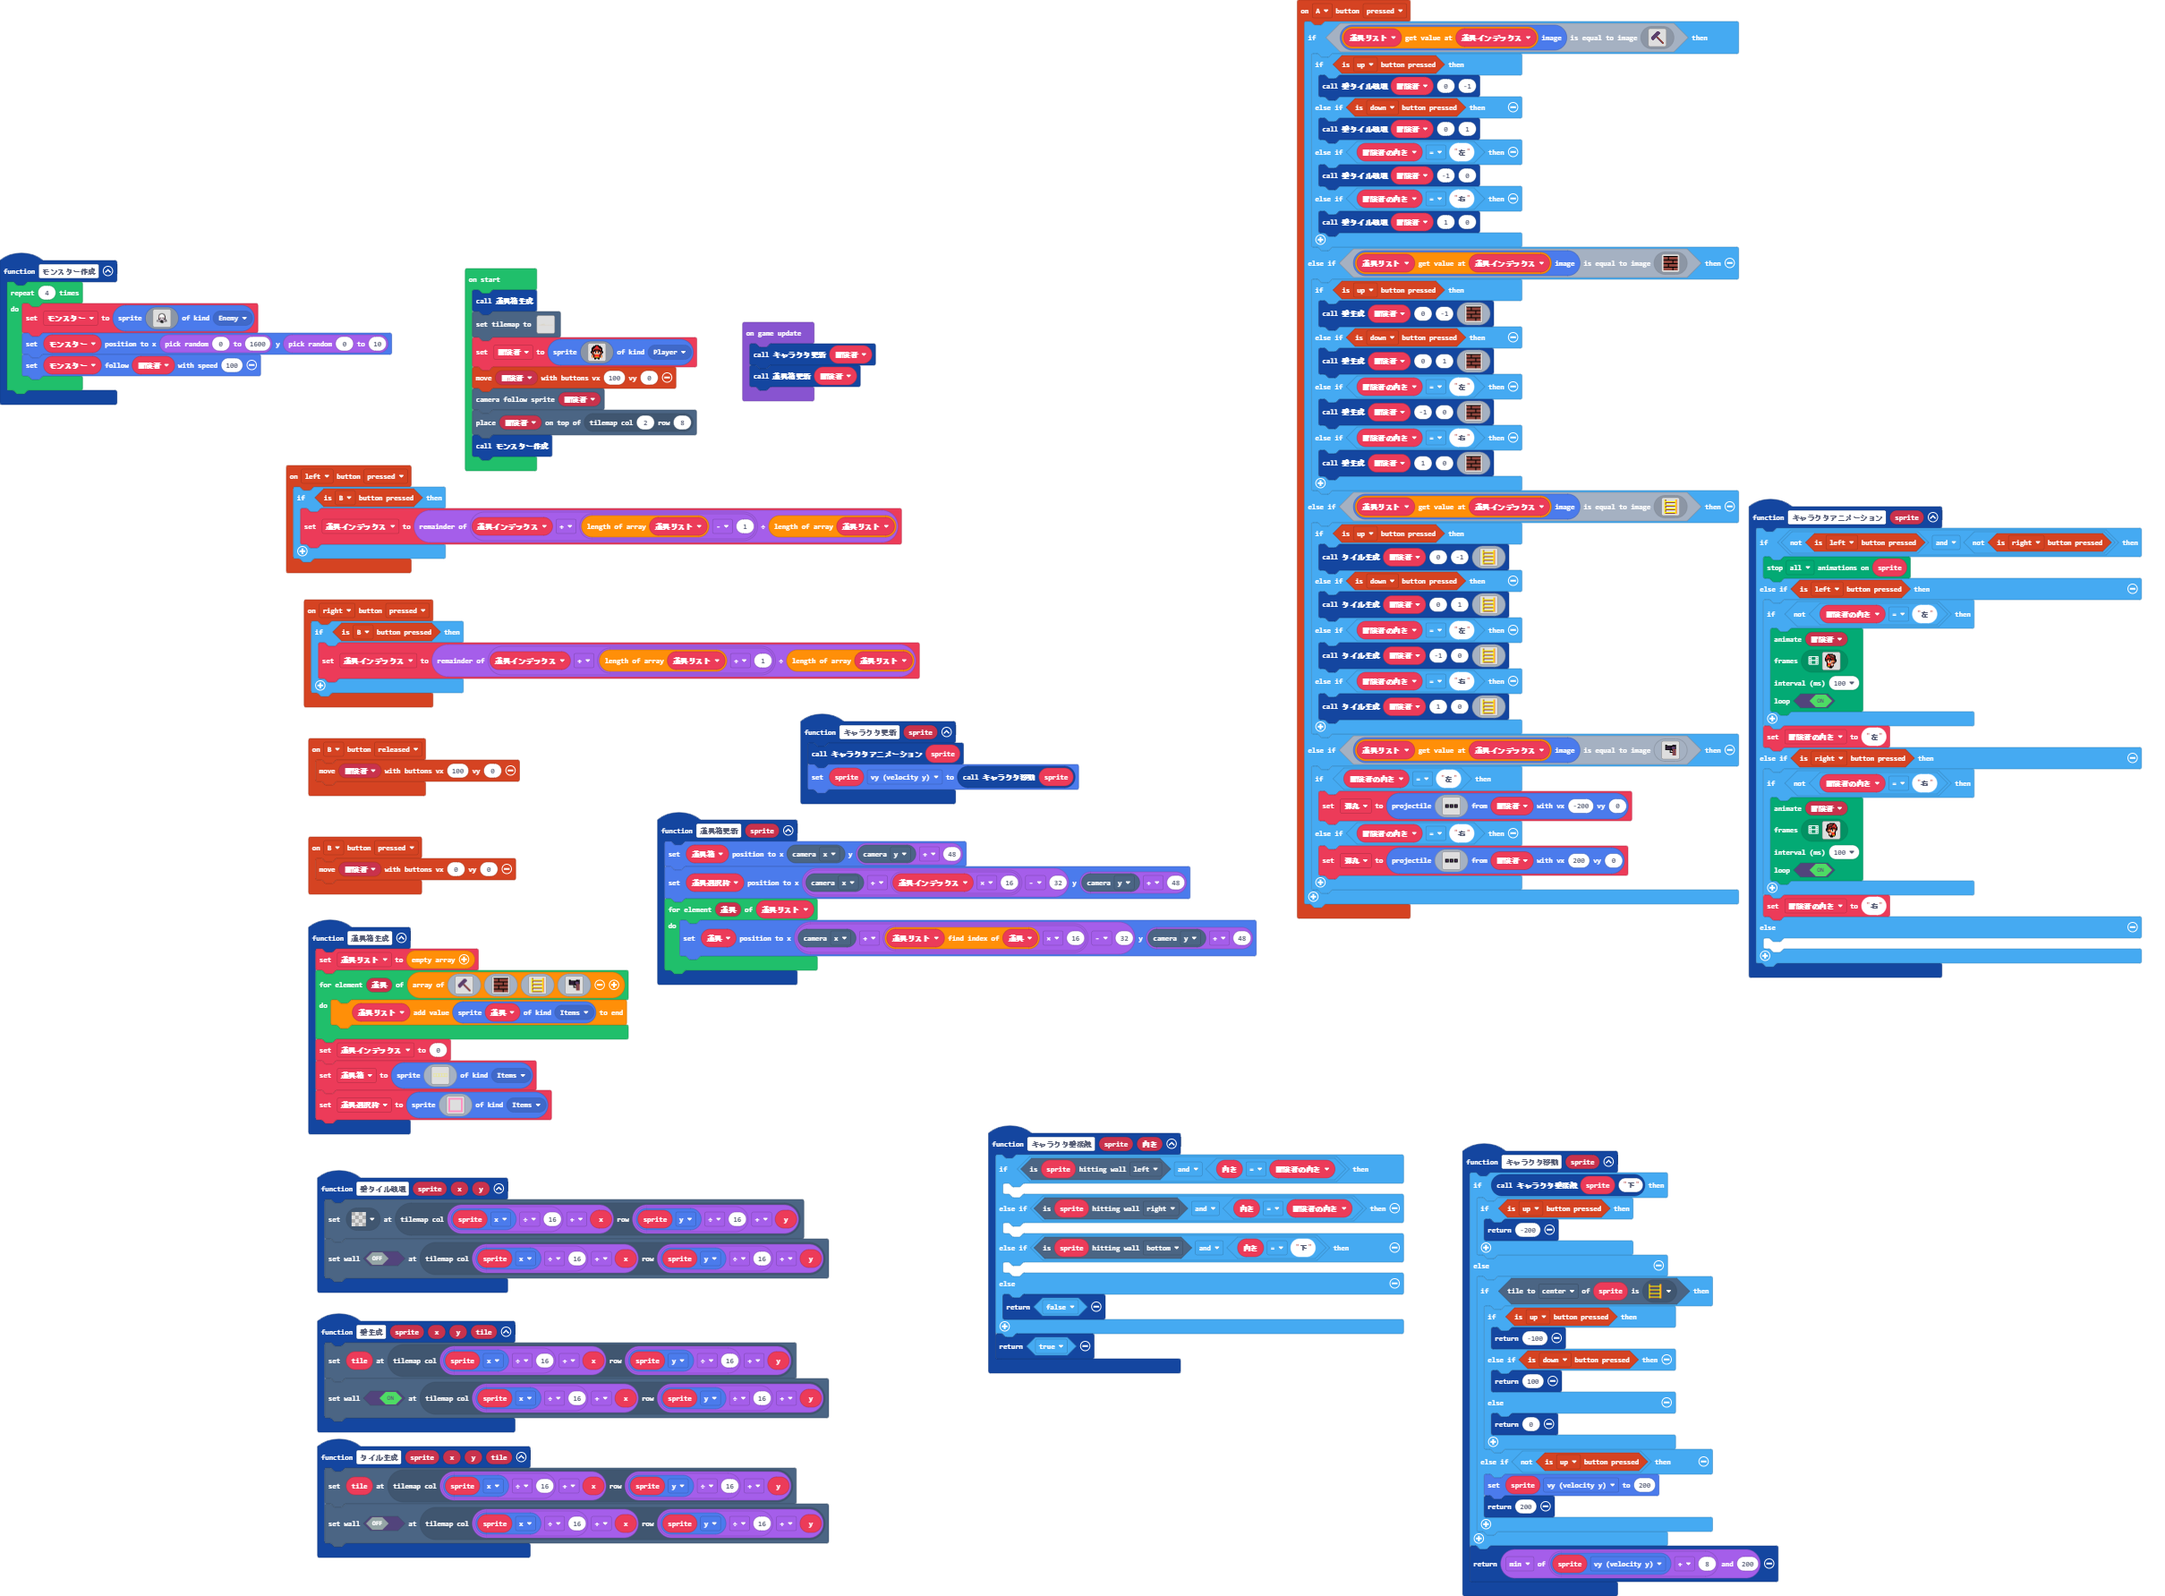
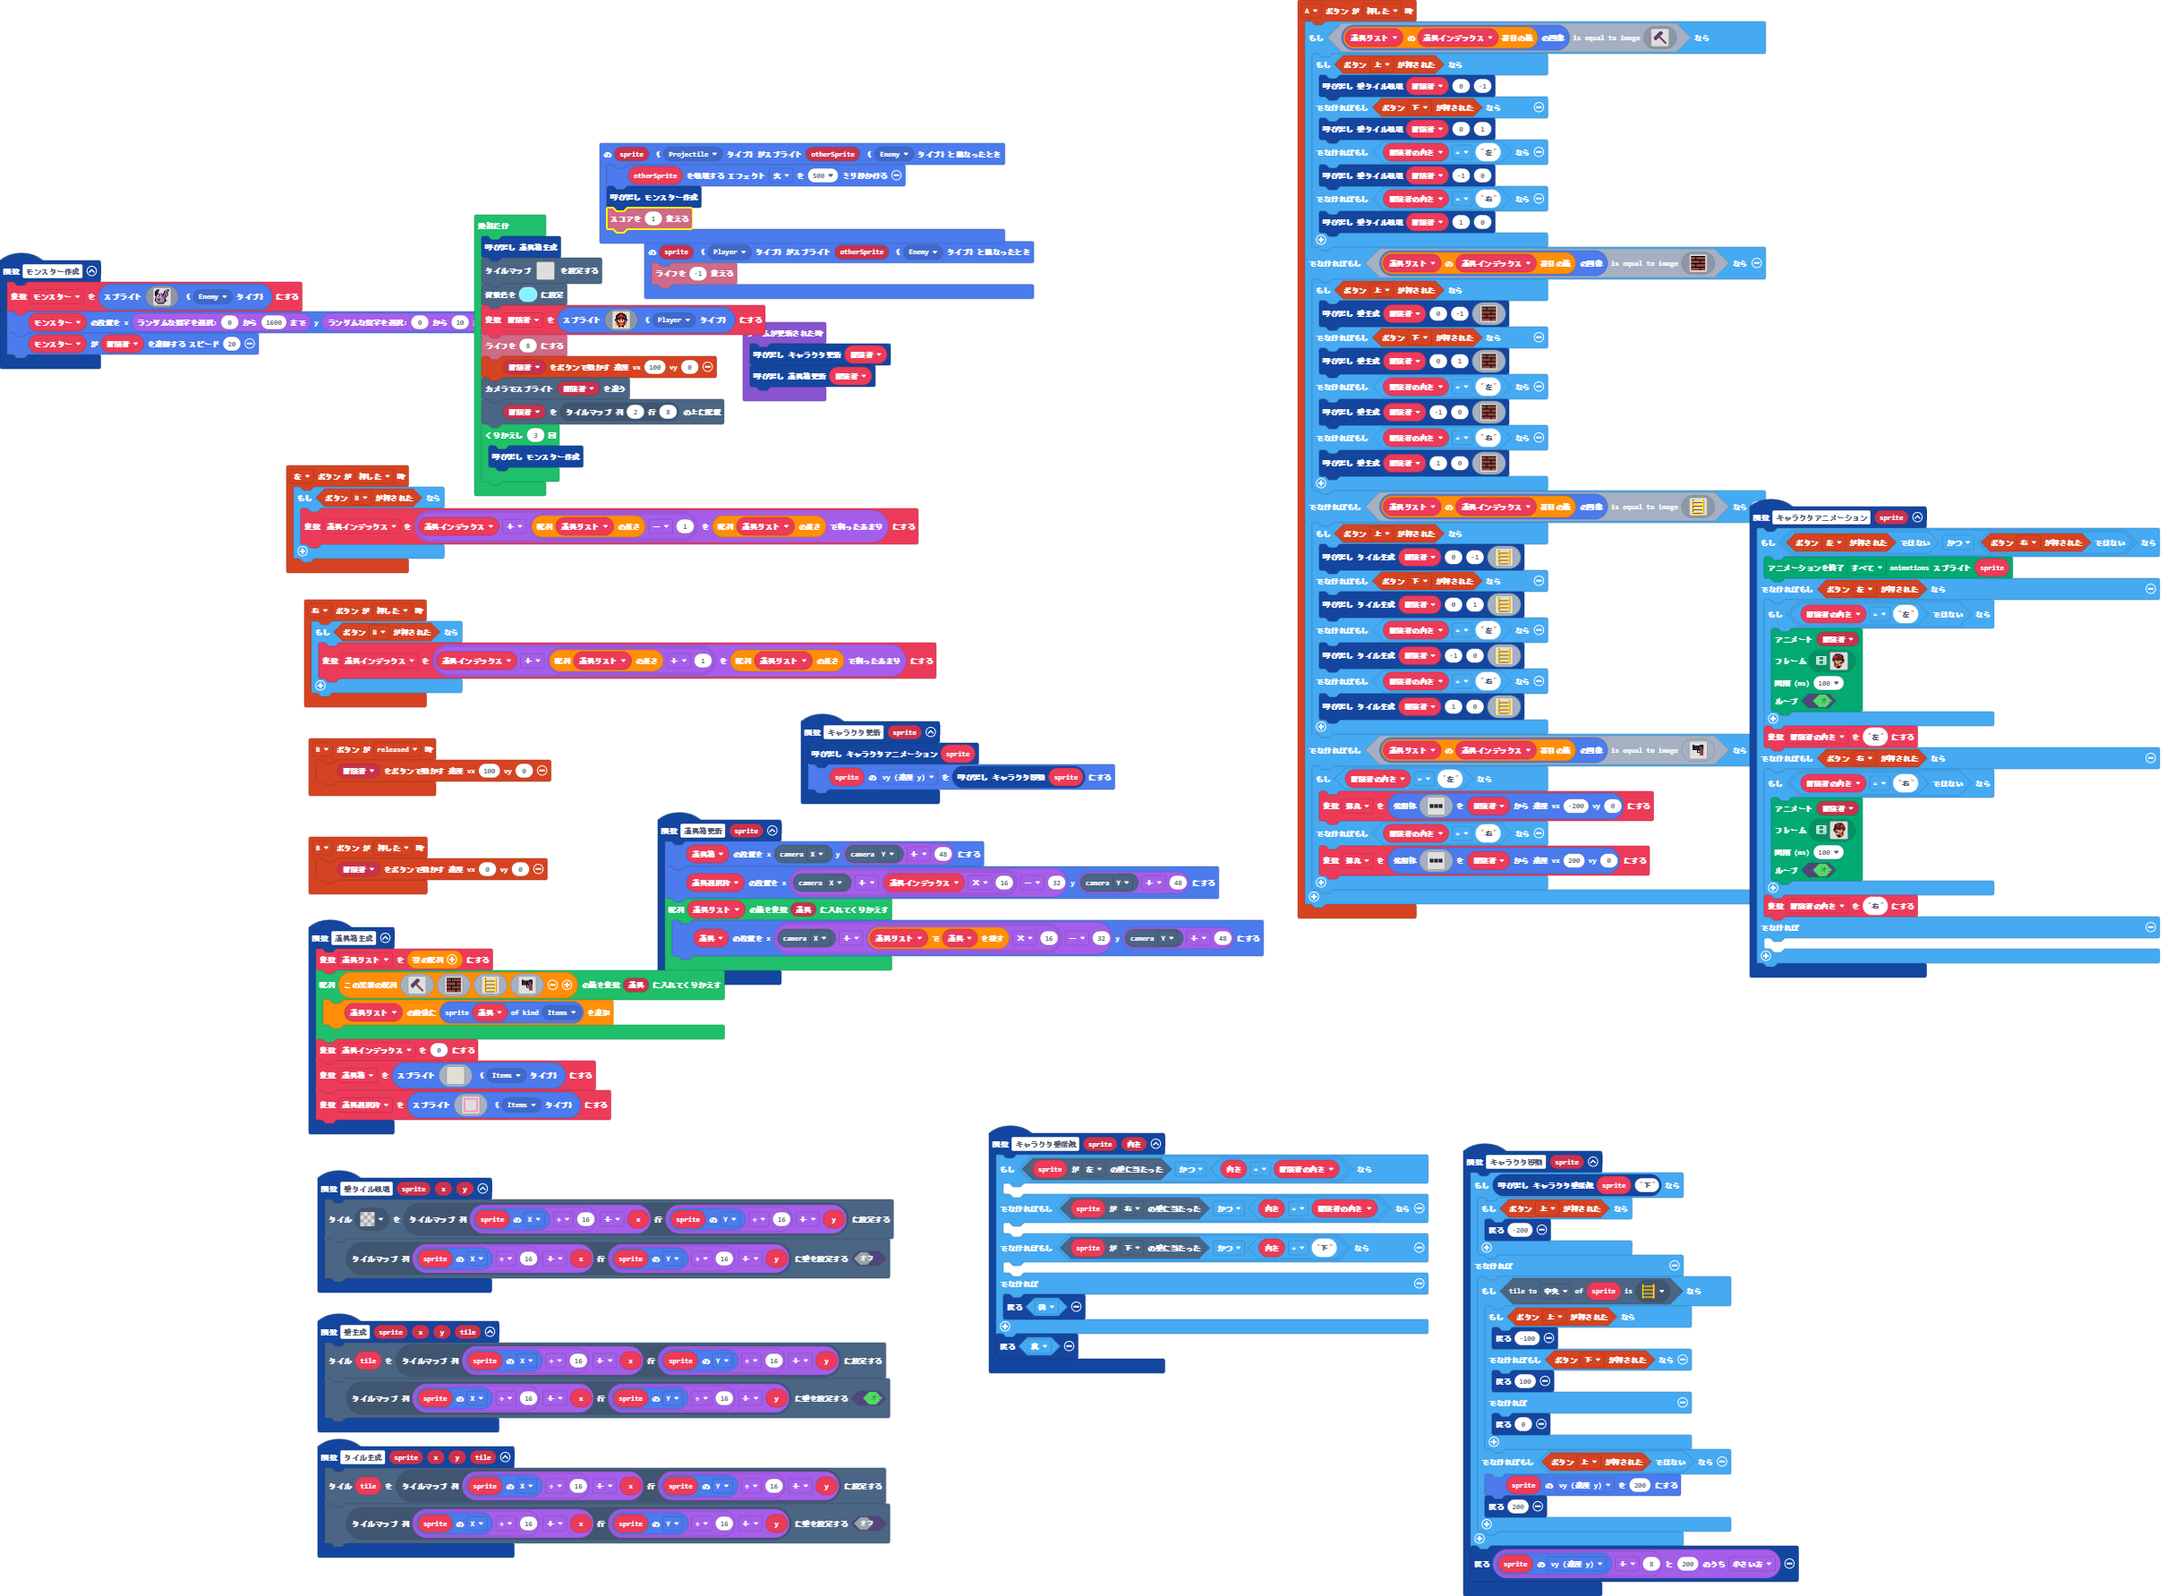
更新 main.blocks, main.ts, tilemap.g.jres, tilemap.g.ts, images.g.jres, images.g.ts

diff --git a/main.ts b/main.ts
@@ -5,85 +5,33 @@ function タイル生成 (sprite: Sprite, x: number, y: number, tile: Image) {
     tiles.setTileAt(tiles.getTileLocation(sprite.x / 16 + x, sprite.y / 16 + y), tile)
     tiles.setWallAt(tiles.getTileLocation(sprite.x / 16 + x, sprite.y / 16 + y), false)
 }
-function モンスター作成 () {
-    for (let index = 0; index < 4; index++) {
-        モンスター = sprites.create(img`
-            ........................
-            ........................
-            ........................
-            ........................
-            ..........ffff..........
-            ........ff1111ff........
-            .......fb111111bf.......
-            .......f11111111f.......
-            ......fd11111111df......
-            ......fd11111111df......
-            ......fddd1111dddf......
-            ......fbdbfddfbdbf......
-            ......fcdcf11fcdcf......
-            .......fb111111bf.......
-            ......fffcdb1bdffff.....
-            ....fc111cbfbfc111cf....
-            ....f1b1b1ffff1b1b1f....
-            ....fbfbffffffbfbfbf....
-            .........ffffff.........
-            ...........fff..........
-            ........................
-            ........................
-            ........................
-            ........................
-            `, SpriteKind.Enemy)
-        モンスター.setPosition(randint(0, 1600), randint(0, 10))
-        モンスター.follow(冒険者, 100)
-    }
-}
-controller.B.onEvent(ControllerButtonEvent.Pressed, function () {
-    controller.moveSprite(冒険者, 0, 0)
-})
-controller.A.onEvent(ControllerButtonEvent.Pressed, function () {
-    if (道具リスト[道具インデックス].image.equals(assets.image`ハンマー`)) {
-        if (controller.up.isPressed()) {
-            壁タイル破壊(冒険者, 0, -1)
-        } else if (controller.down.isPressed()) {
-            壁タイル破壊(冒険者, 0, 1)
-        } else if (冒険者の向き == "左") {
-            壁タイル破壊(冒険者, -1, 0)
-        } else if (冒険者の向き == "右") {
-            壁タイル破壊(冒険者, 1, 0)
-        }
-    } else if (道具リスト[道具インデックス].image.equals(assets.tile`壁タイル`)) {
-        if (controller.up.isPressed()) {
-            壁生成(冒険者, 0, -1, assets.tile`壁タイル`)
-        } else if (controller.down.isPressed()) {
-            壁生成(冒険者, 0, 1, assets.tile`壁タイル`)
-        } else if (冒険者の向き == "左") {
-            壁生成(冒険者, -1, 0, assets.tile`壁タイル`)
-        } else if (冒険者の向き == "右") {
-            壁生成(冒険者, 1, 0, assets.tile`壁タイル`)
-        }
-    } else if (道具リスト[道具インデックス].image.equals(assets.tile`ハシゴタイル`)) {
-        if (controller.up.isPressed()) {
-            タイル生成(冒険者, 0, -1, assets.tile`ハシゴタイル`)
-        } else if (controller.down.isPressed()) {
-            タイル生成(冒険者, 0, 1, assets.tile`ハシゴタイル`)
-        } else if (冒険者の向き == "左") {
-            タイル生成(冒険者, -1, 0, assets.tile`ハシゴタイル`)
-        } else if (冒険者の向き == "右") {
-            タイル生成(冒険者, 1, 0, assets.tile`ハシゴタイル`)
-        }
-    } else if (道具リスト[道具インデックス].image.equals(assets.image`ハンドガン`)) {
-        if (冒険者の向き == "左") {
-            弾丸 = sprites.createProjectileFromSprite(assets.image`弾丸`, 冒険者, -200, 0)
-        } else if (冒険者の向き == "右") {
-            弾丸 = sprites.createProjectileFromSprite(assets.image`弾丸`, 冒険者, 200, 0)
-        }
-    }
-})
-controller.left.onEvent(ControllerButtonEvent.Pressed, function () {
+controller.right.onEvent(ControllerButtonEvent.Pressed, function () {
     if (controller.B.isPressed()) {
-        道具インデックス = (道具インデックス + (道具リスト.length - 1)) % 道具リスト.length
+        道具インデックス = (道具インデックス + (道具リスト.length + 1)) % 道具リスト.length
     }
 })
+function モンスター作成 () {
+    モンスター = sprites.create(img`
+        . . f f f . . . . . . . . f f f 
+        . f f c c . . . . . . f c b b c 
+        f f c c . . . . . . f c b b c . 
+        f c f c . . . . . . f b c c c . 
+        f f f c c . c c . f c b b c c . 
+        f f c 3 c c 3 c c f b c b b c . 
+        f f b 3 b c 3 b c f b c c b c . 
+        . c b b b b b b c b b c c c . . 
+        . c 1 b b b 1 b b c c c c . . . 
+        c b b b b b b b b b c c . . . . 
+        c b c b b b c b b b b f . . . . 
+        f b 1 f f f 1 b b b b f c . . . 
+        f b b b b b b b b b b f c c . . 
+        . f b b b b b b b b c f . . . . 
+        . . f b b b b b b c f . . . . . 
+        . . . f f f f f f f . . . . . . 
+        `, SpriteKind.Enemy)
+    モンスター.setPosition(randint(0, 1600), randint(0, 10))
+    モンスター.follow(冒険者, 20)
+}
 function 道具箱生成 () {
     道具リスト = []
     for (let 道具 of [assets.image`ハンマー`, assets.tile`壁タイル`, assets.tile`ハシゴタイル`, assets.image`ハンドガン`]) {
@@ -131,15 +79,18 @@ function キャラクタ更新 (sprite: Sprite) {
     キャラクタアニメーション(sprite)
     sprite.vy = キャラクタ移動(sprite)
 }
-controller.right.onEvent(ControllerButtonEvent.Pressed, function () {
+controller.left.onEvent(ControllerButtonEvent.Pressed, function () {
     if (controller.B.isPressed()) {
-        道具インデックス = (道具インデックス + (道具リスト.length + 1)) % 道具リスト.length
+        道具インデックス = (道具インデックス + (道具リスト.length - 1)) % 道具リスト.length
     }
 })
 function 壁生成 (sprite: Sprite, x: number, y: number, tile: Image) {
     tiles.setTileAt(tiles.getTileLocation(sprite.x / 16 + x, sprite.y / 16 + y), tile)
     tiles.setWallAt(tiles.getTileLocation(sprite.x / 16 + x, sprite.y / 16 + y), true)
 }
+controller.B.onEvent(ControllerButtonEvent.Pressed, function () {
+    controller.moveSprite(冒険者, 0, 0)
+})
 controller.B.onEvent(ControllerButtonEvent.Released, function () {
     controller.moveSprite(冒険者, 100, 0)
 })
@@ -350,16 +301,64 @@ function キャラクタ壁接触 (sprite: Sprite, 向き: string) {
     }
     return true
 }
-let 道具選択枠: Sprite = null
-let 道具箱: Sprite = null
+sprites.onOverlap(SpriteKind.Projectile, SpriteKind.Enemy, function (sprite, otherSprite) {
+    otherSprite.destroy(effects.fire, 500)
+    モンスター作成()
+    info.changeScoreBy(1)
+})
+sprites.onOverlap(SpriteKind.Player, SpriteKind.Enemy, function (sprite, otherSprite) {
+    info.changeLifeBy(-1)
+})
+controller.A.onEvent(ControllerButtonEvent.Pressed, function () {
+    if (道具リスト[道具インデックス].image.equals(assets.image`ハンマー`)) {
+        if (controller.up.isPressed()) {
+            壁タイル破壊(冒険者, 0, -1)
+        } else if (controller.down.isPressed()) {
+            壁タイル破壊(冒険者, 0, 1)
+        } else if (冒険者の向き == "左") {
+            壁タイル破壊(冒険者, -1, 0)
+        } else if (冒険者の向き == "右") {
+            壁タイル破壊(冒険者, 1, 0)
+        }
+    } else if (道具リスト[道具インデックス].image.equals(assets.tile`壁タイル`)) {
+        if (controller.up.isPressed()) {
+            壁生成(冒険者, 0, -1, assets.tile`壁タイル`)
+        } else if (controller.down.isPressed()) {
+            壁生成(冒険者, 0, 1, assets.tile`壁タイル`)
+        } else if (冒険者の向き == "左") {
+            壁生成(冒険者, -1, 0, assets.tile`壁タイル`)
+        } else if (冒険者の向き == "右") {
+            壁生成(冒険者, 1, 0, assets.tile`壁タイル`)
+        }
+    } else if (道具リスト[道具インデックス].image.equals(assets.tile`ハシゴタイル`)) {
+        if (controller.up.isPressed()) {
+            タイル生成(冒険者, 0, -1, assets.tile`ハシゴタイル`)
+        } else if (controller.down.isPressed()) {
+            タイル生成(冒険者, 0, 1, assets.tile`ハシゴタイル`)
+        } else if (冒険者の向き == "左") {
+            タイル生成(冒険者, -1, 0, assets.tile`ハシゴタイル`)
+        } else if (冒険者の向き == "右") {
+            タイル生成(冒険者, 1, 0, assets.tile`ハシゴタイル`)
+        }
+    } else if (道具リスト[道具インデックス].image.equals(assets.image`ハンドガン`)) {
+        if (冒険者の向き == "左") {
+            弾丸 = sprites.createProjectileFromSprite(assets.image`弾丸`, 冒険者, -200, 0)
+        } else if (冒険者の向き == "右") {
+            弾丸 = sprites.createProjectileFromSprite(assets.image`弾丸`, 冒険者, 200, 0)
+        }
+    }
+})
 let 弾丸: Sprite = null
 let 冒険者の向き = ""
-let 道具インデックス = 0
-let 道具リスト: Sprite[] = []
+let 道具選択枠: Sprite = null
+let 道具箱: Sprite = null
 let モンスター: Sprite = null
+let 道具リスト: Sprite[] = []
+let 道具インデックス = 0
 let 冒険者: Sprite = null
 道具箱生成()
 tiles.setTilemap(tilemap`level1`)
+scene.setBackgroundColor(9)
 冒険者 = sprites.create(img`
     . . . . . . f f f f . . . . . . 
     . . . . f f f 2 2 f f f . . . . 
@@ -378,10 +377,13 @@ tiles.setTilemap(tilemap`level1`)
     . . . . . f f f f f f . . . . . 
     . . . . . f f . . f f . . . . . 
     `, SpriteKind.Player)
+info.setLife(8)
 controller.moveSprite(冒険者, 100, 0)
 scene.cameraFollowSprite(冒険者)
 tiles.placeOnTile(冒険者, tiles.getTileLocation(2, 8))
-モンスター作成()
+for (let index = 0; index < 3; index++) {
+    モンスター作成()
+}
 game.onUpdate(function () {
     キャラクタ更新(冒険者)
     道具箱更新(冒険者)

diff --git a/images.g.ts b/images.g.ts
@@ -1,4 +1,4 @@
-// Auto-generated code. Do not edit.
+// 自動生成されたコードです。変更しないでください。
 namespace myImages {
 
     helpers._registerFactory("image", function(name: string) {
@@ -115,30 +115,41 @@ namespace myImages {
 . . . . . . . . . . . . . . . . 
 `;
             case "image3":return img`
-........................
-........................
-........................
-........................
-..........ffff..........
-........ff1111ff........
-.......fb111111bf.......
-.......f11111111f.......
-......fd11111111df......
-......fd11111111df......
-......fddd1111dddf......
-......fbdbfddfbdbf......
-......fcdcf11fcdcf......
-.......fb111111bf.......
-......fffcdb1bdffff.....
-....fc111cbfbfc111cf....
-....f1b1b1ffff1b1b1f....
-....fbfbffffffbfbfbf....
-.........ffffff.........
-...........fff..........
-........................
-........................
-........................
-........................
+. . f f f . . . . . . . . f f f 
+. f f c c . . . . . . f c b b c 
+f f c c . . . . . . f c b b c . 
+f c f c . . . . . . f b c c c . 
+f f f c c . c c . f c b b c c . 
+f f c 3 c c 3 c c f b c b b c . 
+f f b 3 b c 3 b c f b c c b c . 
+. c b b b b b b c b b c c c . . 
+. c 1 b b b 1 b b c c c c . . . 
+c b b b b b b b b b c c . . . . 
+c b c b b b c b b b b f . . . . 
+f b 1 f f f 1 b b b b f c . . . 
+f b b b b b b b b b b f c c . . 
+. f b b b b b b b b c f . . . . 
+. . f b b b b b b c f . . . . . 
+. . . f f f f f f f . . . . . . 
+`;
+            case "image6":
+            case "myImage":return img`
+. . . . . . . . . . . . . . . . 
+. . . . . . . . . . . . . . . . 
+. . . . . . . . . . . . . . . . 
+. . . . . . . . . . . . . . . . 
+. . . . . . . . . . . . . . . . 
+. . . . . . . . . . . . . . . . 
+. . . . . . . . . . . . . . . . 
+. . . . . . . . . . . . . . . . 
+. . . . . . . . . . . . . . . . 
+. . . . . . . . . . . . . . . . 
+. . . . . . . . . . . . . . . . 
+. . . . . . . . . . . . . . . . 
+. . . . . . . . . . . . . . . . 
+. . . . . . . . . . . . . . . . 
+. . . . . . . . . . . . . . . . 
+. . . . . . . . . . . . . . . . 
 `;
         }
         return null;
@@ -289,4 +300,4 @@ namespace myImages {
     })
 
 }
-// Auto-generated code. Do not edit.
+// 自動生成されたコードです。変更しないでください。

diff --git a/tilemap.g.ts b/tilemap.g.ts
@@ -1,7 +1,9 @@
-// Auto-generated code. Do not edit.
+// 自動生成されたコードです。変更しないでください。
 namespace myTiles {
     //% fixedInstance jres blockIdentity=images._tile
     export const transparency16 = image.ofBuffer(hex``);
+    //% fixedInstance jres blockIdentity=images._tile
+    export const tile3 = image.ofBuffer(hex``);
     //% fixedInstance jres blockIdentity=images._tile
     export const tile1 = image.ofBuffer(hex``);
     //% fixedInstance jres blockIdentity=images._tile
@@ -35,6 +37,8 @@ namespace myTiles {
     helpers._registerFactory("tile", function(name: string) {
         switch(helpers.stringTrim(name)) {
             case "transparency16":return transparency16;
+            case "myTile":
+            case "tile3":return tile3;
             case "壁タイル":
             case "tile1":return tile1;
             case "ハシゴタイル":
@@ -44,4 +48,4 @@ namespace myTiles {
     })
 
 }
-// Auto-generated code. Do not edit.
+// 自動生成されたコードです。変更しないでください。
